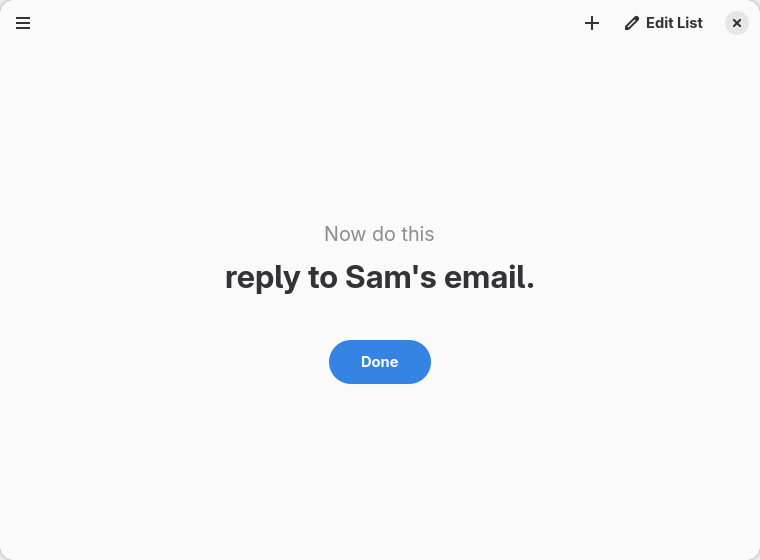
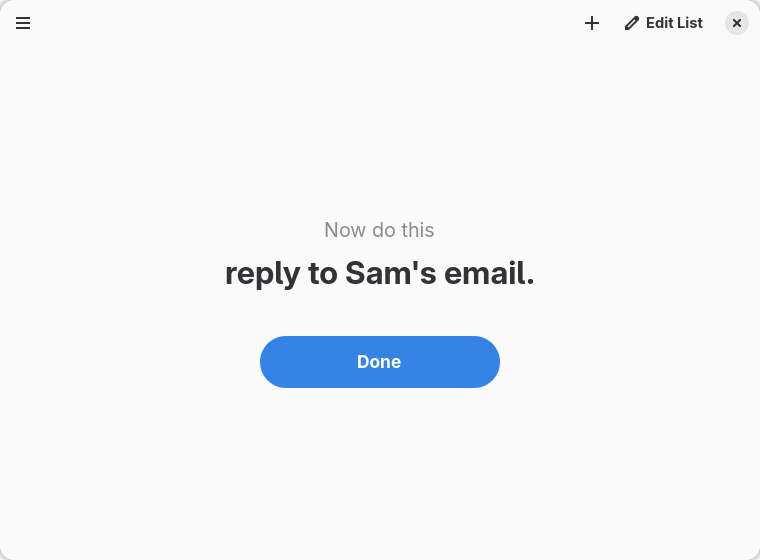
Give the Done button the size its job deserves
It was the most pressed control in the app and the smallest thing on the
screen. It is now about half the width of the task column, with a little more
type and room, which reads as the one thing to press without turning into a
bar: at full column width the pill stretches and starts underlining the task
rather than sitting below it.

Changed region(s): [[0.3329, 0.5768, 0.6658, 0.6982], [0.3026, 0.4554, 0.6961, 0.5464], [0.4237, 0.3946, 0.575, 0.425]]

diff --git a/src/style.css b/src/style.css
@@ -14,3 +14,11 @@
 .task-list {
   font-size: 135%;
 }
+
+/* The one thing to press on the screen, so it carries a little more type and a
+   little more room than a default pill. */
+.task-done {
+  font-size: 118%;
+  padding-top: 14px;
+  padding-bottom: 14px;
+}
